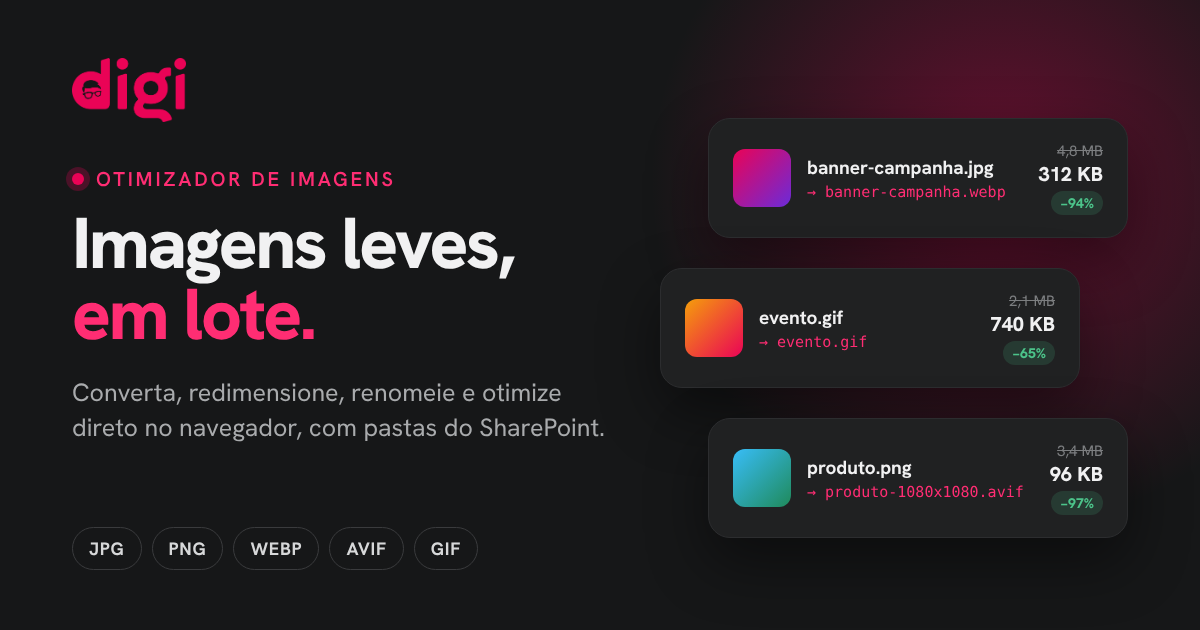
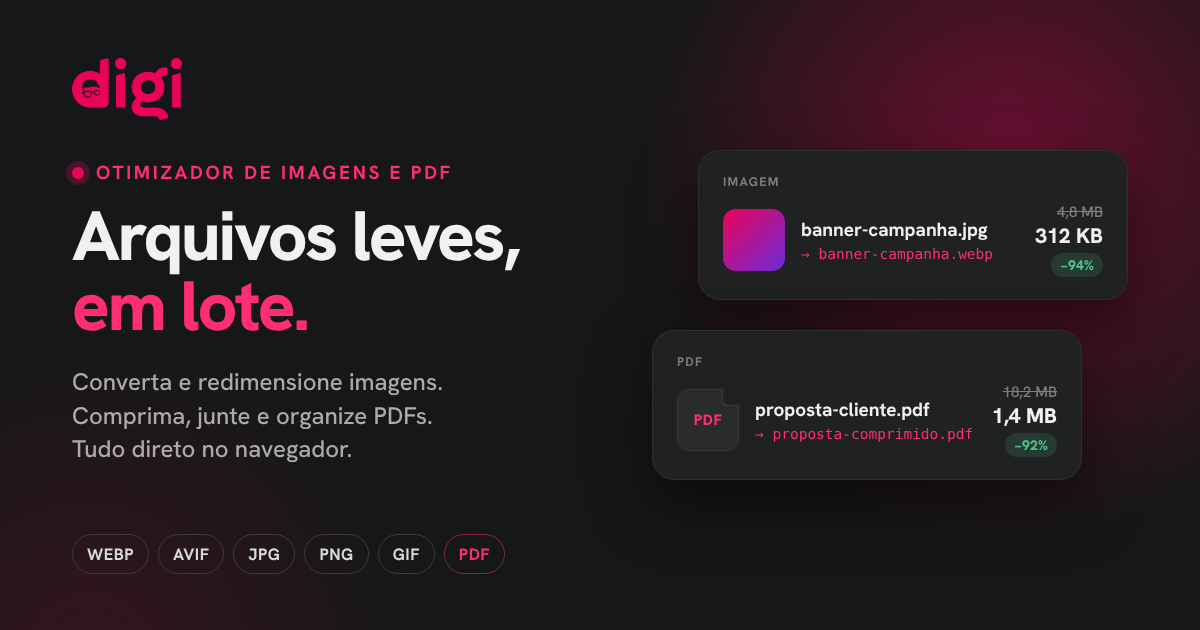
Add files via upload

diff --git a/index.html b/index.html
@@ -3,25 +3,25 @@
 <head>
 <meta charset="UTF-8">
 <meta name="viewport" content="width=device-width, initial-scale=1.0">
-<title>Otimizador de Imagens · Digi</title>
-<meta name="description" content="Otimize imagens e PDFs em lote, direto no navegador: converta, redimensione e renomeie imagens; comprima, junte, divida e organize PDFs.">
+<title>Otimizador de Imagens e PDF · Digi</title>
+<meta name="description" content="Imagens e PDFs mais leves, em lote e direto no navegador. Converta, redimensione e renomeie imagens; comprima, junte e organize PDFs.">
 <meta name="theme-color" content="#EA0356">
 
 <!-- Compartilhamento (Open Graph / redes sociais) -->
 <meta property="og:type" content="website">
 <meta property="og:site_name" content="Digi">
 <meta property="og:locale" content="pt_BR">
-<meta property="og:title" content="Otimizador de Imagens · Digi">
-<meta property="og:description" content="Otimize imagens e PDFs em lote, direto no navegador: converta, redimensione e renomeie imagens; comprima, junte, divida e organize PDFs.">
+<meta property="og:title" content="Otimizador de Imagens e PDF · Digi">
+<meta property="og:description" content="Imagens e PDFs mais leves, em lote e direto no navegador. Converta, redimensione e renomeie imagens; comprima, junte e organize PDFs.">
 <meta property="og:url" content="https://digicriacao.github.io/otimizador/">
-<meta property="og:image" content="https://digicriacao.github.io/otimizador/public/og-image.png">
+<meta property="og:image" content="https://digicriacao.github.io/otimizador/public/og-image.png?v=2">
 <meta property="og:image:width" content="1200">
 <meta property="og:image:height" content="630">
-<meta property="og:image:alt" content="Otimizador de Imagens da Digi">
+<meta property="og:image:alt" content="Otimizador de Imagens e PDF da Digi: arquivos mais leves, em lote">
 <meta name="twitter:card" content="summary_large_image">
-<meta name="twitter:title" content="Otimizador de Imagens · Digi">
-<meta name="twitter:description" content="Otimize imagens e PDFs em lote, direto no navegador: converta, redimensione e renomeie imagens; comprima, junte, divida e organize PDFs.">
-<meta name="twitter:image" content="https://digicriacao.github.io/otimizador/public/og-image.png">
+<meta name="twitter:title" content="Otimizador de Imagens e PDF · Digi">
+<meta name="twitter:description" content="Imagens e PDFs mais leves, em lote e direto no navegador. Converta, redimensione e renomeie imagens; comprima, junte e organize PDFs.">
+<meta name="twitter:image" content="https://digicriacao.github.io/otimizador/public/og-image.png?v=2">
 
 <!-- Favicon (a animação é aplicada pelo assets/js/favicon.js) -->
 <link rel="icon" type="image/svg+xml" href="public/favicon.svg" id="favicon">
